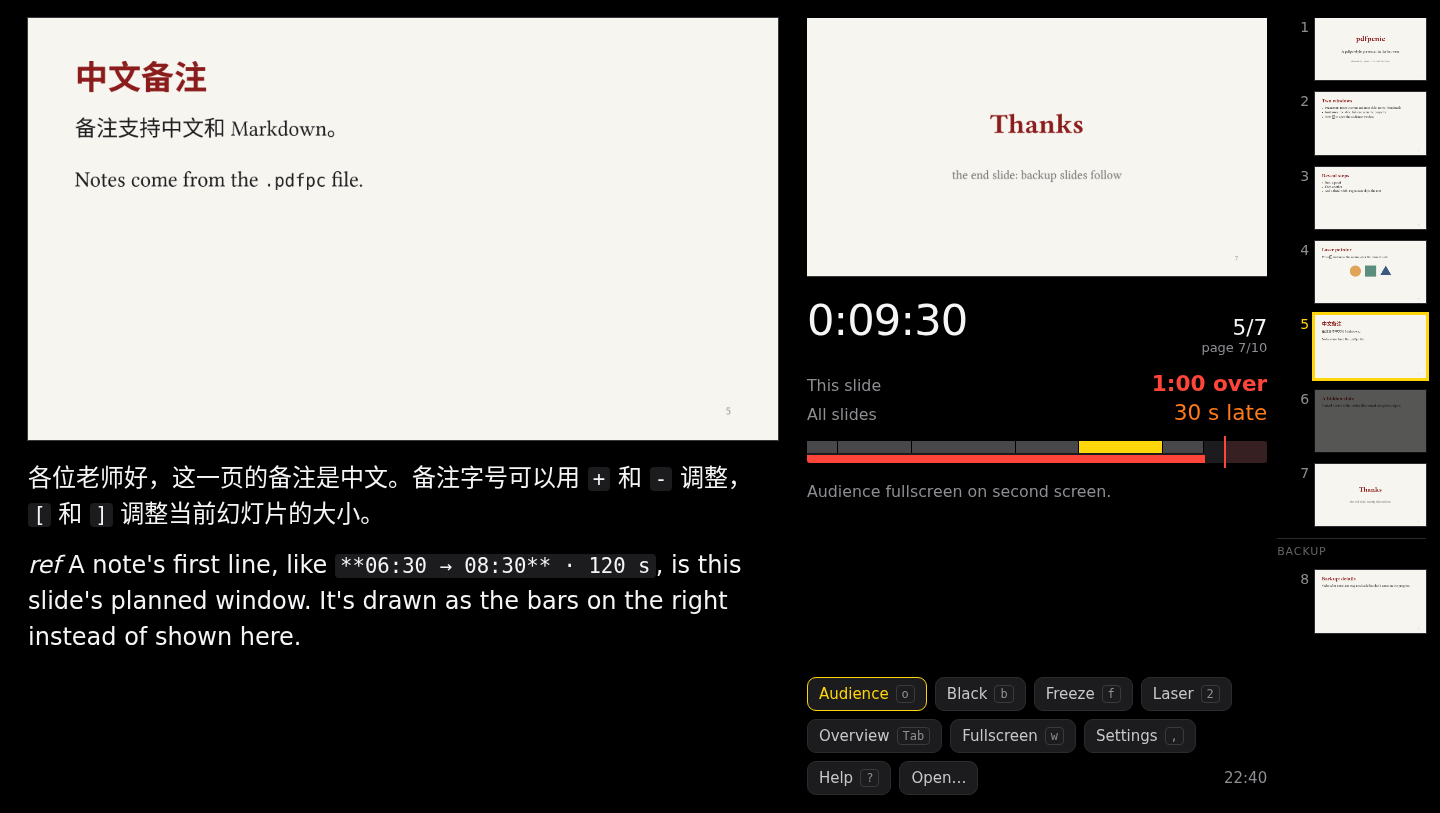
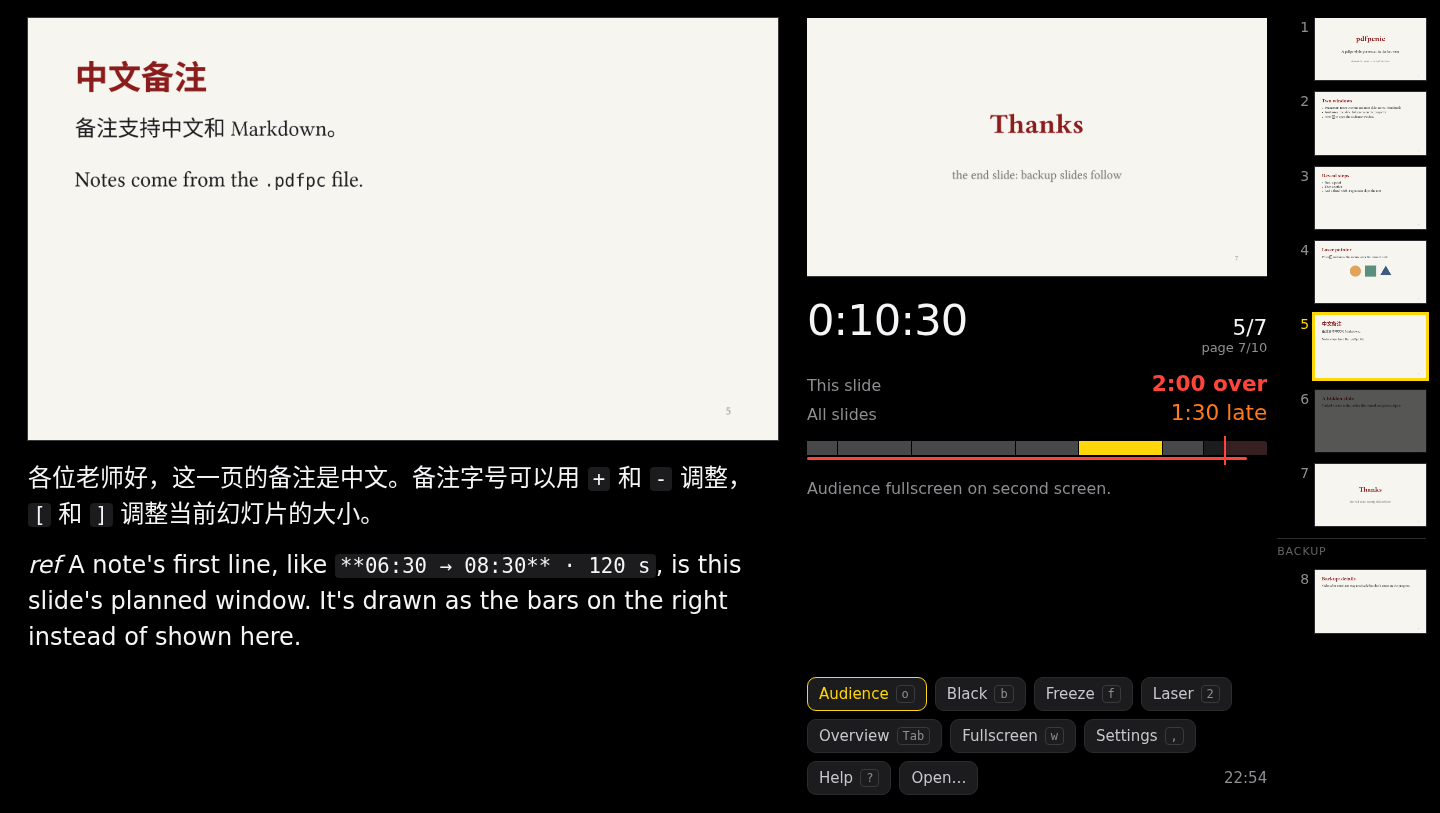
Pace levels in time or shares; projection from when you reached the slide
The pace levels can be set in time or as shares of the talk; the defaults
are now a minute of slack for being early, and late serious from 1 minute
and very serious from 2. Switching units keeps the levels where they are
for the open deck.

"All slides" now counts this slide as taking its planned time from when
you reached it (or longer while you stay), then the rest as planned.
Before, anywhere inside the slide's window counted as on time, so reaching
a one-minute slide late in its window didn't show until it was over. A
little early now just reads "on time" there.

Time spent is a thin line under the slides rather than a second bar.

Changed region(s): [[0.5625, 0.5535, 0.875, 0.615], [0.5938, 0.369, 0.625, 0.4305], [0.8125, 0.492, 0.8438, 0.5228]]

diff --git a/src/main.ts b/src/main.ts
@@ -69,6 +69,20 @@ const audience = new Audience({
 
 let presenter: Presenter | null = null;
 
+const LEVELS = ["early", "serious", "severe"] as const;
+type SlackLevel = (typeof LEVELS)[number];
+
+/** Slider ranges for the pace levels: [min, max, step] in seconds, or in percent. */
+const SLACK_RANGE: Record<Slack["unit"], Record<SlackLevel, [number, number, number]>> = {
+  time: { early: [0, 300, 15], serious: [15, 600, 15], severe: [15, 900, 15] },
+  share: { early: [0, 20, 1], serious: [1, 30, 1], severe: [1, 40, 1] },
+};
+
+function loadSlack(): Slack {
+  const saved = store.pref<Slack | null>("paceSlack", null);
+  return saved && saved.unit in SLACK ? { ...SLACK[saved.unit], ...saved } : { ...SLACK.time };
+}
+
 class Presenter {
   readonly state: State;
   private cache: PageCache;
@@ -86,7 +100,7 @@ class Presenter {
   private stripSlide = -1;
   private laserSize = store.pref("laserSize", 0.035);
   private notesSize: number;
-  private slack: Slack = { ...SLACK, ...store.pref<Partial<Slack>>("slack", {}) };
+  private slack: Slack = loadSlack();
 
   constructor(
     readonly deck: Deck,
@@ -393,18 +407,37 @@ class Presenter {
     range("set-stage", (v) => this.setStage(v / 100));
     range("set-notes", (v) => this.setNotesSize(v));
     range("set-laser", (v) => this.setLaserSize(v / 100));
-    // The late levels keep their order: serious never past severe.
-    const setSlack = (key: keyof Slack, v: number) => {
-      const s = { ...this.slack, [key]: v / 100 };
+    // Pace levels: sliders in seconds or percent, as the unit says. The late
+    // levels keep their order: serious never past severe.
+    const setSlack = (key: SlackLevel, v: number) => {
+      const s = { ...this.slack, [key]: this.slack.unit === "time" ? v : v / 100 };
       if (key === "serious") s.severe = Math.max(s.severe, s.serious);
       if (key === "severe") s.serious = Math.min(s.serious, s.severe);
-      this.slack = s;
-      store.setPref("slack", s);
-      this.renderTimer();
+      this.useSlack(s);
     };
-    range("set-early", (v) => setSlack("early", v));
-    range("set-serious", (v) => setSlack("serious", v));
-    range("set-severe", (v) => setSlack("severe", v));
+    for (const key of LEVELS) range(`set-${key}`, (v) => setSlack(key, v));
+    for (const b of document.querySelectorAll<HTMLButtonElement>("#set-unit button")) {
+      b.addEventListener(
+        "click",
+        () => {
+          // Keep the levels where they are, in the other unit, if the talk's length is known.
+          const unit = b.dataset.unit as Slack["unit"];
+          const t = this.target;
+          if (unit === this.slack.unit) return;
+          const next: Slack = { ...SLACK[unit] };
+          if (t) {
+            for (const key of LEVELS) {
+              const [min, max] = SLACK_RANGE[unit][key];
+              const v = unit === "time" ? Math.round((this.slack[key] * t) / 15) * 15 : Math.round((this.slack[key] / t) * 100);
+              next[key] = Math.min(max, Math.max(min, v)) / (unit === "time" ? 1 : 100);
+            }
+          }
+          this.useSlack(next);
+          this.syncSettings();
+        },
+        { signal },
+      );
+    }
     $("set-defaults").addEventListener(
       "click",
       () => {
@@ -412,9 +445,7 @@ class Presenter {
         this.setNotesSize(this.deckNotesSize);
         store.setPref("notesSize", null);
         this.setLaserSize(0.035);
-        this.slack = { ...SLACK };
-        store.setPref("slack", this.slack);
-        this.renderTimer();
+        this.useSlack({ ...SLACK.time });
         this.applySplit(0.62);
         store.setPref("split", this.split);
         this.syncSettings();
@@ -506,10 +537,25 @@ class Presenter {
     show("set-notes", this.notesSize, `${this.notesSize} px`);
     const laser = Math.round(this.laserSize * 200) / 2;
     show("set-laser", laser, `${laser}%`);
-    for (const key of ["early", "serious", "severe"] as const) {
-      const pct = Math.round(this.slack[key] * 100);
-      show(`set-${key}`, pct, this.target ? `${pct}% · ${span(this.slack[key] * this.target)}` : `${pct}%`);
+    const { unit } = this.slack;
+    const t = this.target;
+    for (const b of document.querySelectorAll<HTMLButtonElement>("#set-unit button")) {
+      b.classList.toggle("on", b.dataset.unit === unit);
     }
+    for (const key of LEVELS) {
+      const v = this.slack[key];
+      const input = $<HTMLInputElement>(`set-${key}`);
+      [input.min, input.max, input.step] = SLACK_RANGE[unit][key].map(String);
+      // The other unit alongside, for this talk.
+      if (unit === "time") show(`set-${key}`, v, t ? `${span(v)} (${Math.round((v / t) * 100)}%)` : span(v));
+      else show(`set-${key}`, Math.round(v * 100), t ? `${Math.round(v * 100)}% (${span(v * t)})` : `${Math.round(v * 100)}%`);
+    }
+  }
+
+  private useSlack(slack: Slack): void {
+    this.slack = slack;
+    store.setPref("paceSlack", slack);
+    this.renderTimer();
   }
 
   // Rendering
@@ -690,6 +736,9 @@ class Presenter {
 
   /** The talk's target length in seconds, as last drawn; settings show the slack against it. */
   private target = 0;
+  /** The planned window you're in, and when you came to it (seconds into the talk). */
+  private planKey: string | null = null;
+  private enteredAt = 0;
 
   private renderPace(now: number): void {
     const s = this.state;
@@ -723,13 +772,24 @@ class Presenter {
       $("pace-slide").title = plan.end > plan.start ? `Planned ${mark(plan.start)}–${mark(plan.end)}` : `Planned at ${mark(plan.start)}`;
     }
 
-    // All slides: where the talk ends at this pace (the plan, moved by how
-    // far you are off this slide), against the target end.
-    const finish = slide > s.endSlide && started ? at : planned + (where?.offset ?? 0);
+    // All slides: where the talk ends at this pace, against the target end.
+    // This slide takes its planned length from when you came to it (or
+    // longer, while you stay), and the rest goes as planned.
+    if (plan && started) {
+      const key = `${slide}:${plan.start}:${plan.end}`;
+      if (key !== this.planKey || at < this.enteredAt) {
+        this.planKey = key;
+        this.enteredAt = at;
+      }
+    }
+    const shift = plan && started ? Math.max(at, this.enteredAt + plan.end - plan.start) - plan.end : 0;
+    const finish = slide > s.endSlide && started ? at : planned + shift;
     const diff = Math.round(finish - target);
     const all = $("pace-all-text");
-    all.textContent = diff < 0 ? `${span(diff)} early` : diff > 0 ? `${span(diff)} late` : "on time";
-    all.className = `pace-num t-${started ? grade(diff, target, this.slack) : "idle"}`;
+    const allLevel = started ? grade(diff, target, this.slack) : "idle";
+    // A little early is simply on time here.
+    all.textContent = diff > 0 ? `${span(diff)} late` : allLevel === "early" ? `${span(diff)} early` : "on time";
+    all.className = `pace-num t-${allLevel}`;
     $("pace-all").title = `Planned to end at ${mark(planned)}; target ${mark(target)}`;
 
     // The bar: fixed, with room past the target end. Time spent fills it,

diff --git a/index.html b/index.html
@@ -63,7 +63,7 @@
             <div
               id="talkbar"
               class="talkbar"
-              title="Top: the slides as planned, this one yellow. Under them: time spent, white on time, orange behind, blue ahead. Red line: the target end."
+              title="The slides as planned, this one yellow. The line under them: time spent, white on time, orange behind, blue ahead. Red line: the target end."
             ></div>
           </div>
         </section>
@@ -102,15 +102,15 @@
               <dt>This slide</dt>
               <dd>Time left in its planned window; past it, how far <span class="t-late">over</span>; before it, how early.</dd>
               <dt>All slides</dt>
-              <dd>Where you'll finish at this pace, against the target end: early or <span class="t-late">late</span>. The levels can be changed in Settings.</dd>
+              <dd>Where you'll finish at this pace: this slide taking its planned time from when you reached it, the rest as planned. Against the target end: early or <span class="t-late">late</span>.</dd>
               <dt><i class="sw this"></i><i class="sw next"></i></dt>
-              <dd>The bar's top row: the slides as planned, this one yellow. Under it, time spent:</dd>
+              <dd>The bar: the slides as planned, this one yellow. The line under it is time spent:</dd>
               <dt><i class="sw on"></i></dt>
               <dd>on time: it ends under the yellow block (or a little short of it);</dd>
               <dt><i class="sw late"></i><i class="sw serious"></i><i class="sw severe"></i></dt>
-              <dd>behind: it has run past the yellow block; deeper as it gets serious and very serious (by default 3% and 6% of the talk; see Settings);</dd>
+              <dd>behind: it has run past the yellow block; deeper as it gets serious and very serious (by default 1 and 2 minutes; see Settings);</dd>
               <dt><i class="sw early"></i></dt>
-              <dd>well ahead: by default more than 5% of the talk short of the yellow block.</dd>
+              <dd>well ahead: by default more than a minute short of the yellow block.</dd>
               <dt><i class="sw target"></i></dt>
               <dd>Red line: the target end, <code>duration</code>, else where the plan ends.</dd>
             </dl>
@@ -142,6 +142,13 @@
           <kbd>+ −</kbd>
         </label>
         <h3>Pace colors</h3>
+        <div class="setting">
+          <span>Measure in</span>
+          <div id="set-unit" class="switch">
+            <button type="button" data-unit="time">time</button>
+            <button type="button" data-unit="share">% of the talk</button>
+          </div>
+        </div>
         <label class="setting">
           <span>Early is fine up to</span>
           <input id="set-early" type="range" min="0" max="20" step="1" />
@@ -157,7 +164,7 @@
           <input id="set-severe" type="range" min="1" max="30" step="1" />
           <output for="set-severe"></output>
         </label>
-        <p class="settings-foot">Shares of the talk's length (its <code>duration</code>, else the planned total). Late always shows, in <span class="t-late">orange</span>, <span class="t-serious">deep orange</span> and <span class="t-severe">red</span>; early only past its share, in <span class="t-early">blue</span>.</p>
+        <p class="settings-foot">Late always shows, in <span class="t-late">orange</span>, <span class="t-serious">deep orange</span> and <span class="t-severe">red</span>; early only past its level, in <span class="t-early">blue</span>. Shares are of the talk's length (its <code>duration</code>, else the planned total).</p>
         <p class="settings-foot">Saved in this browser. While the laser is on, <kbd>+</kbd> and <kbd>−</kbd> size its dot instead of the notes.</p>
         <div class="settings-actions">
           <button id="set-defaults" type="button">Restore defaults</button>

diff --git a/src/pace.ts b/src/pace.ts
@@ -55,22 +55,28 @@ export function mark(seconds: number): string {
 }
 
 /**
- * How far off is too far, as shares of the talk's target length: being early
- * by up to `early` passes without a color; being late always shows, `serious`
- * and `severe` mark the next two levels.
+ * How far off is too far, in seconds (`time`) or as shares of the talk's
+ * target length (`share`): being early by up to `early` passes without a
+ * color; being late always shows, `serious` and `severe` mark the next levels.
  */
 export interface Slack {
+  unit: "time" | "share";
   early: number;
   serious: number;
   severe: number;
 }
 
-export const SLACK: Slack = { early: 0.05, serious: 0.03, severe: 0.06 };
+/** Defaults for each unit. */
+export const SLACK: Record<Slack["unit"], Slack> = {
+  time: { unit: "time", early: 60, serious: 60, severe: 120 },
+  share: { unit: "share", early: 0.05, serious: 0.03, severe: 0.06 },
+};
 
 export type Grade = "early" | "on" | "late" | "serious" | "severe";
 
 /** Grades `offset` seconds off plan (positive: late) in a talk of `target` seconds. */
 export function grade(offset: number, target: number, slack: Slack): Grade {
-  if (offset > 0) return offset >= slack.severe * target ? "severe" : offset >= slack.serious * target ? "serious" : "late";
-  return -offset > slack.early * target ? "early" : "on";
+  const limit = (v: number) => (slack.unit === "time" ? v : v * target);
+  if (offset > 0) return offset >= limit(slack.severe) ? "severe" : offset >= limit(slack.serious) ? "serious" : "late";
+  return -offset > limit(slack.early) ? "early" : "on";
 }

diff --git a/src/style.css b/src/style.css
@@ -403,15 +403,15 @@ kbd {
   font-size: clamp(17px, 1.5vw, 28px);
   text-align: right;
 }
-/* Two rows against the same clock: the slides as planned on top, time spent
+/* Against the same clock: the slides as planned, time spent as a thin line
    under them in the color of the pace, and the target end as a red line. */
 .talkbar {
   grid-column: 1 / -1;
   position: relative;
-  height: 22px;
+  height: 19px;
   margin-top: 12px;
   border-radius: 3px;
-  background: var(--panel);
+  background: linear-gradient(var(--panel), var(--panel)) top / 100% 14px no-repeat;
 }
 .talkbar > * {
   position: absolute;
@@ -419,13 +419,15 @@ kbd {
   bottom: 0;
 }
 .talkbar .past {
+  bottom: auto;
+  height: 14px;
   right: 0;
   border-radius: 0 3px 3px 0;
   background: rgb(255 69 58 / 0.12);
 }
 .talkbar .seg {
   bottom: auto;
-  height: 12px;
+  height: 14px;
   background: #48484a;
   box-shadow: inset -1px 0 0 #000;
 }
@@ -435,8 +437,8 @@ kbd {
 .talkbar .spent {
   top: auto;
   left: 0;
-  height: 8px;
-  border-radius: 0 0 0 3px;
+  height: 3px;
+  border-radius: 2px;
   background: #d1d1d6;
 }
 .talkbar .spent.t-late {
@@ -787,6 +789,23 @@ kbd {
   align-items: center;
   gap: 12px;
   margin-bottom: 12px;
+}
+.switch {
+  grid-column: 2 / -1;
+  display: flex;
+  gap: 4px;
+}
+.switch button {
+  padding: 5px 12px;
+  border: 1px solid #3a3a3c;
+  border-radius: 8px;
+  background: #2c2c2e;
+  color: var(--dim);
+  cursor: pointer;
+}
+.switch button.on {
+  border-color: var(--accent);
+  color: var(--accent);
 }
 .setting input {
   width: 100%;

diff --git a/README.md b/README.md
@@ -96,14 +96,15 @@ Under the clock:
 
 - **This slide**: the time left in its window. Anywhere inside the window is on time. Past its end it says how far
   over you are; reach the slide before its start and it says how early you are.
-- **All slides**: where the talk will end at this pace (the plan, moved by however far you are off this slide),
-  against the target end: early or late. The target is `duration` or `endTime`, else where the plan ends.
-- **The bar** is fixed, with a red line at the target end and some room past it. Its top row is the slides as planned,
-  this one in yellow. Under it, time spent fills in from the left, colored by how you stand against this slide.
+- **All slides**: where the talk will end at this pace, against the target end (`duration` or `endTime`, else where
+  the plan ends). This slide is counted as taking its planned time from when you reached it, or longer while you stay,
+  and the slides after it as planned. Reach a one-minute slide 50 seconds into its window and it already says you'll
+  be late; a little early just says on time.
+- **The bar** is fixed, with a red line at the target end and some room past it: the slides as planned, this one in
+  yellow, and under them a thin line of time spent, colored by how you stand against this slide.
 
-Colors grade how far off you are, as a share of the target length. Late always shows: orange, deep orange from 3%
-(serious) and red from 6% (very serious). Early shows, in blue, only past 5%; a little early is fine and stays white.
-All three levels can be changed in **Settings** (`,`).
+Late always shows: orange, deep orange from 1 minute (serious) and red from 2 minutes (very serious). Early shows, in
+blue, only past 1 minute. **Settings** (`,`) changes the three levels, in time or as shares of the talk.
 
 Without timing lines, the talk's length is split evenly over the slides (pdfpc's even pace). **Help** (`?`) has a key
 to the colors.
